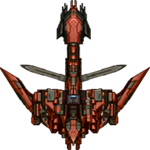
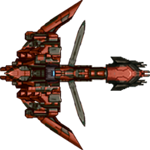
corrected my ship angles yashpal blade special

diff --git a/OrionTrial/src/com/me/mygdxgame/Entities/PlayerEntity.java b/OrionTrial/src/com/me/mygdxgame/Entities/PlayerEntity.java
@@ -48,10 +48,10 @@ public class PlayerEntity extends Ship implements InputProcessor, RayCastCallbac
 	ArrayList<CounterMeasure> m_availableCMS = new ArrayList< CounterMeasure >();
 	
 	
-	public PlayerEntity(String appearanceLocation, String collisionData, World world, float startX,
+	public PlayerEntity(String appearanceLocation, World world, float startX,
 			float startY, float initialAngleAdjust, float maxV, ArrayList<ViewedCollidable> aliveThings, ParallaxCamera cam, Stage stage ) 
 	{
-		super(appearanceLocation, collisionData, world, startX, startY, maxV, aliveThings, 1 );
+		super(appearanceLocation+".png", appearanceLocation+".json", world, startX, startY, maxV, aliveThings, 1 );
 		// TODO Auto-generated constructor stub
 		
 		//m_objectSprite.rotate((float) initialAngleAdjust);
@@ -86,13 +86,11 @@ public class PlayerEntity extends Ship implements InputProcessor, RayCastCallbac
       cam.unproject( vec );
       m_angleRadians = Math.atan2(vec.y - pos.y*29f, vec.x - pos.x*29f);
       
-      float degrees = (float) Math.toDegrees(m_angleRadians);
-      float difference = degrees - m_angleDegrees;
-      m_objectSprite.setRotation(m_angleDegrees - 90f );//rotate( (float) (difference) );
-      m_angleDegrees = (float) degrees;
+      m_angleDegrees = (float) Math.toDegrees(m_angleRadians);
+      m_objectSprite.setRotation(m_angleDegrees );//rotate( (float) (difference) );
       
       //Normalize angle so that joints don't go fuckin nuts
-      float bodyTransformAngle = (float) (m_angleRadians - Math.PI/2);
+      float bodyTransformAngle = (float) (m_angleRadians);
       m_body.setTransform(m_body.getPosition(), bodyTransformAngle );
       
       

diff --git a/OrionTrial/src/com/me/mygdxgame/Screens/CombatScreen.java b/OrionTrial/src/com/me/mygdxgame/Screens/CombatScreen.java
@@ -131,7 +131,7 @@ public class CombatScreen extends OrionScreen implements ContactListener
         m_stage = new Stage();
         skin = new Skin(Gdx.files.internal("data/uiskin.json"));
         Dialog window = new Dialog("", skin);
-        player = new PlayerEntity("data/shipsized.png", "data/myshipcollision.json", w, 0, 0, -90, 40f, m_aliveThings, cam, m_stage);
+        player = new PlayerEntity("data/shipsized", w, 0, 0, -90, 40f, m_aliveThings, cam, m_stage);
         //player.AddShortRangeCounterMeasure( new MachineGun( w, player, m_aliveThings, 20 ) );
         asty = new Asteroid("data/asteroid.png", "", w, 0, 40, m_aliveThings );
         asty = new Asteroid("data/asteroid.png", "",w, 5, 40, m_aliveThings );
@@ -139,7 +139,7 @@ public class CombatScreen extends OrionScreen implements ContactListener
         asty = new Asteroid("data/asteroid.png", "",w, -5, 40, m_aliveThings );
         glViewport = new Rectangle(0, 0, WIDTH, HEIGHT);
         w.setContactListener(this);
-        shippy = new EnemyShip( "data/stateczek.png", "",w, 0, 50, -90, 50, 2, m_aliveThings );
+        shippy = new EnemyShip( "data/stateczek.png", "",w, 0, 50, 0, 50, 2, m_aliveThings );
         shippy.AddToFighterGroup( new EnemyShip( "data/stateczek.png", "", w, 0, 90, -90, 50, 2, m_aliveThings ) );
         shippy.AddShortRangeCounterMeasure( new MachineGun( w, shippy, m_aliveThings ) );
         

diff --git a/OrionTrial/src/com/me/mygdxgame/Entities/Ship.java b/OrionTrial/src/com/me/mygdxgame/Entities/Ship.java
@@ -150,11 +150,8 @@ public class Ship extends ViewedCollidable
 			m_detectionRange = 50f;
 			SetShieldColor();
 			m_pooledShieldEffect.setPosition( m_objectXPosition , m_objectYPosition );
-			//m_pooledShieldEffect.getEmitters().get(0).getAngle().setAlwaysActive(true);
-			//m_pooledShieldEffect.getEmitters().get(0).getAngle().setHigh((float) m_angleRadians);
-			//m_pooledShieldEffect.getEmitters().get(0).getAngle().setLow((float) m_angleRadians);
-			m_pooledShieldEffect.getEmitters().get(0).getRotation().setHigh((float) m_angleDegrees - 90);
-			m_pooledShieldEffect.getEmitters().get(0).getRotation().setLow((float) m_angleDegrees - 90);
+			m_pooledShieldEffect.getEmitters().get(0).getRotation().setHigh((float) m_angleDegrees);
+			m_pooledShieldEffect.getEmitters().get(0).getRotation().setLow((float) m_angleDegrees);
 			m_pooledShieldEffect.draw(renderer, 1f/60f);
 			DrawHackedIndicator(renderer);
 			for( int i = 0; i < m_overTimeEffects.size(); i++ )

diff --git a/OrionTrial/src/com/me/mygdxgame/Entities/WingBlade.java b/OrionTrial/src/com/me/mygdxgame/Entities/WingBlade.java
@@ -92,7 +92,6 @@ public class WingBlade extends ViewedCollidable
 		   for( int i = 0; i < m_contactPoints.size(); i++ )
 	   	   {
 			   Vector2 contactPoint = m_contactPoints.get(i);
-	   		   //font.draw(spriteBatch, "X", contactPoint.x * 29f, contactPoint.y * 29f );
 			   m_pooledSaberHitEffect.setPosition( contactPoint.x * 29f, contactPoint.y * 29f );
 			   m_pooledSaberHitEffect.draw(renderer, 1f/60f);
 	   	   }
@@ -128,7 +127,8 @@ public class WingBlade extends ViewedCollidable
 		if( !WingBlade.class.isInstance( fixture.getBody().getUserData()))
 		{
 			ViewedCollidable vc = (ViewedCollidable) fixture.getBody().getUserData();
-			vc.damageIntegrity( .25f, DamageType.Energy, true, false, false );
+			boolean directDamage = m_specialAbilitiesActivated.get(Characters.Yashpal);
+			vc.damageIntegrity( .25f, DamageType.Energy, true, directDamage, directDamage );
 			vc.damageIntegrity( m_extraDamage, DamageType.Energy );
 			m_extraDamage*=.6f;
 		}
